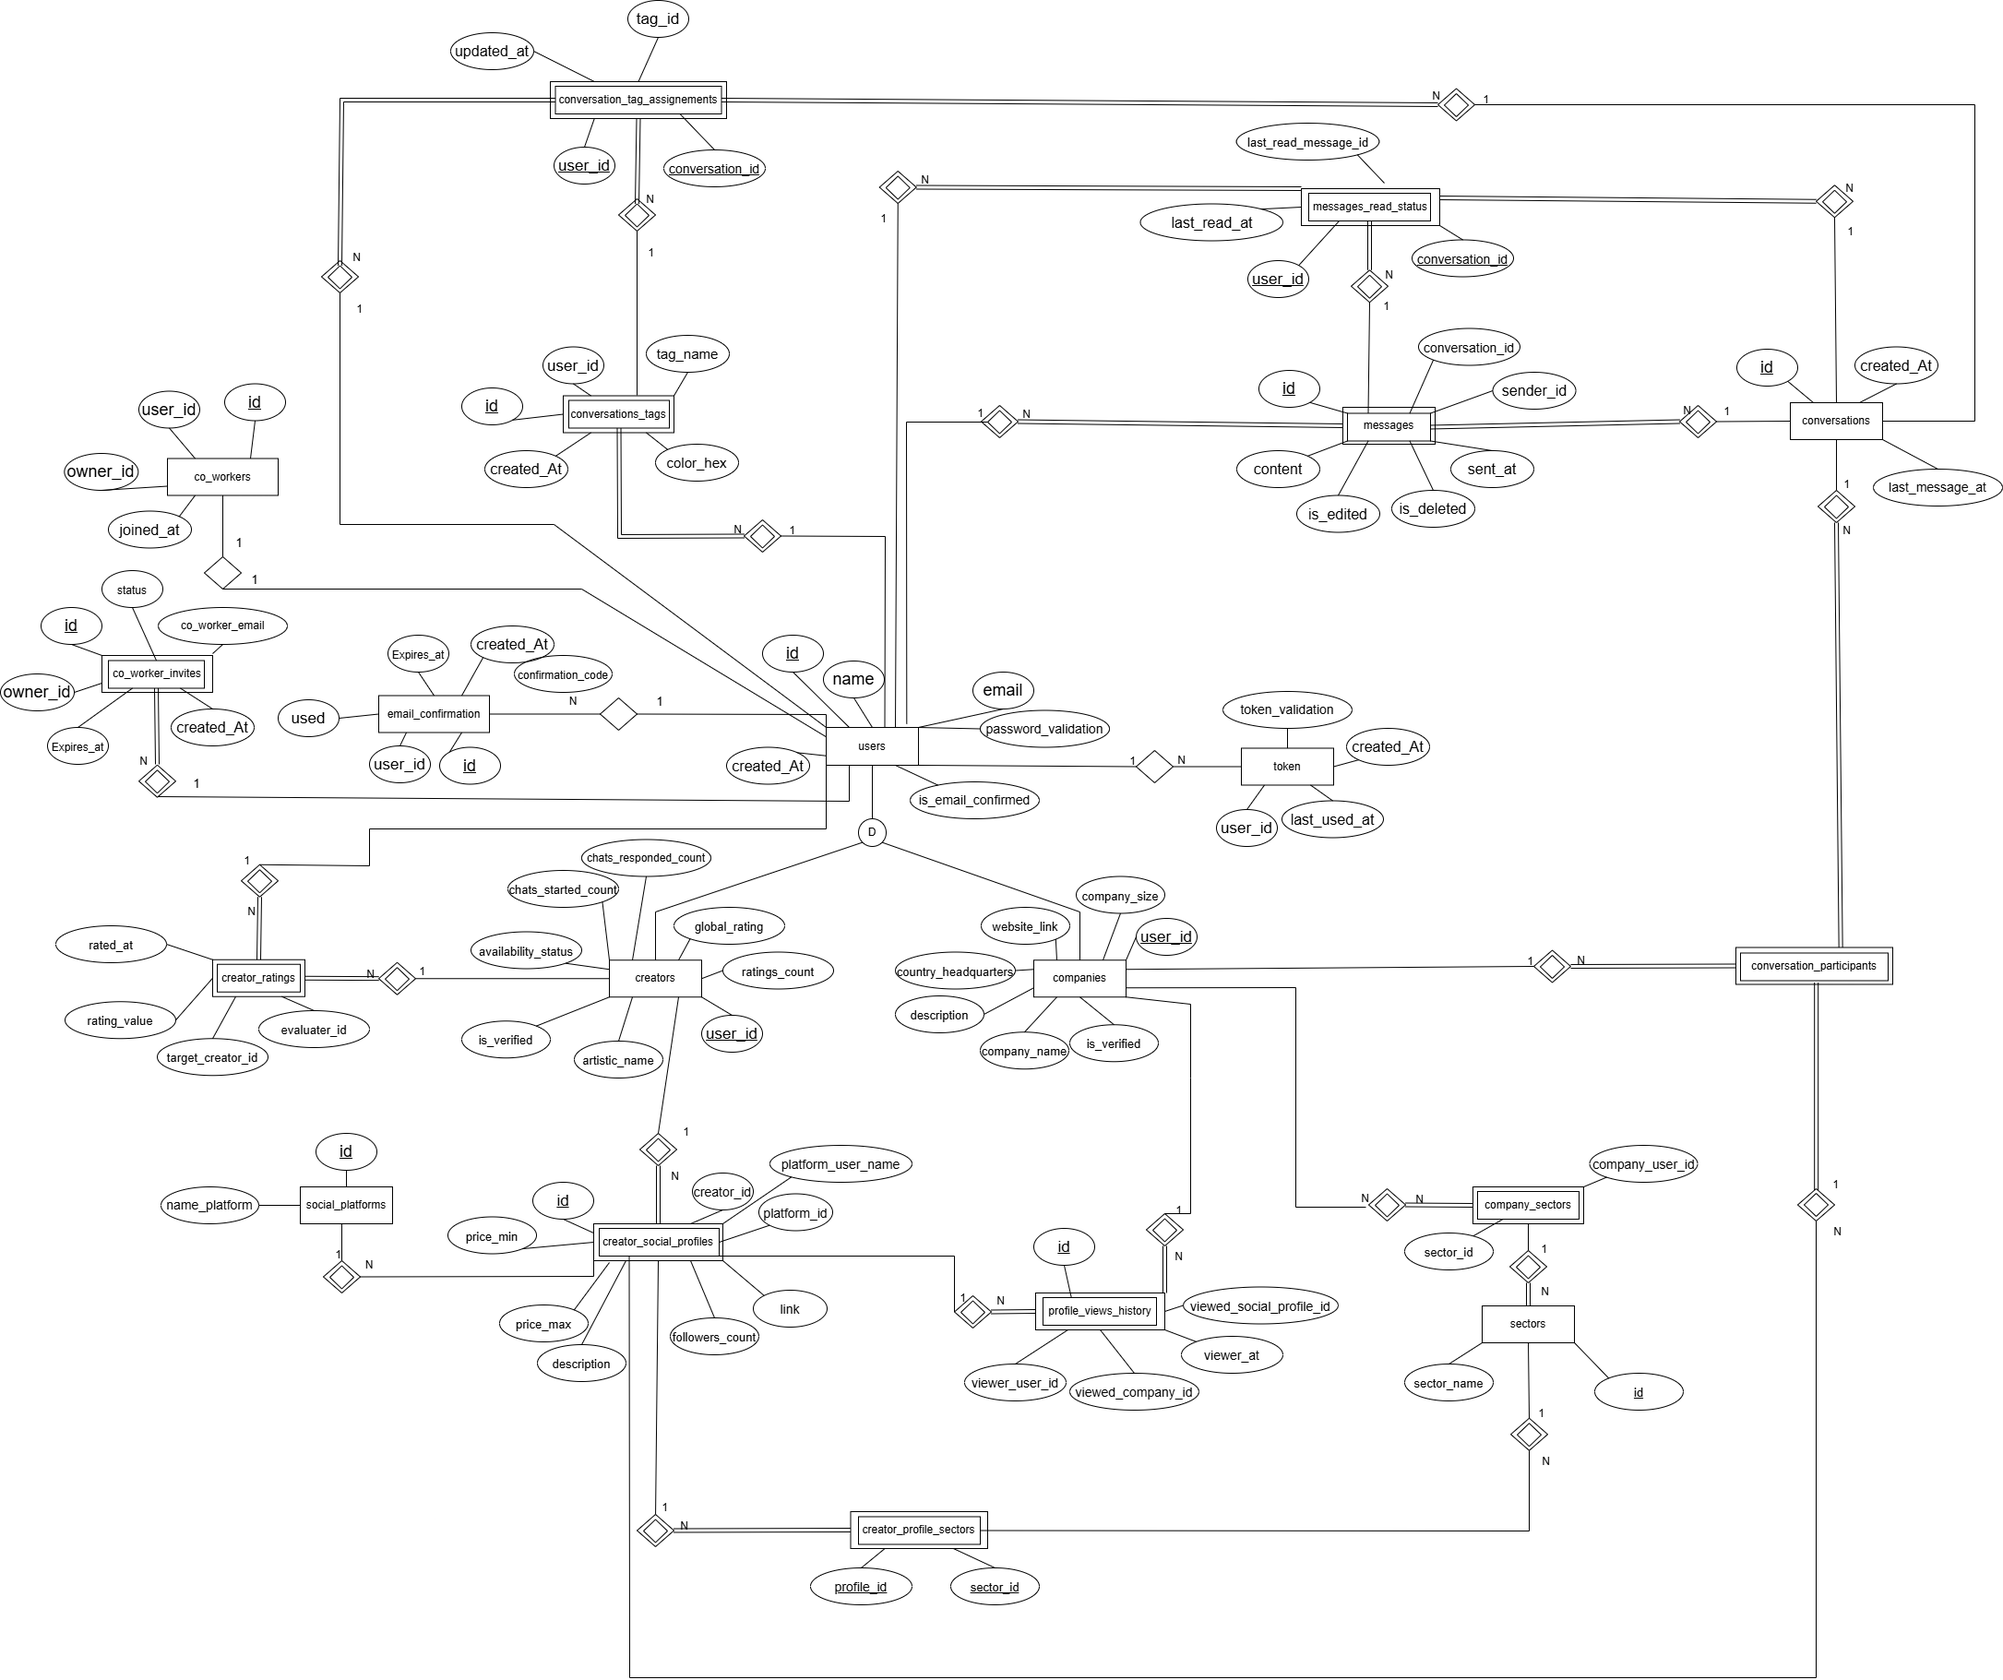
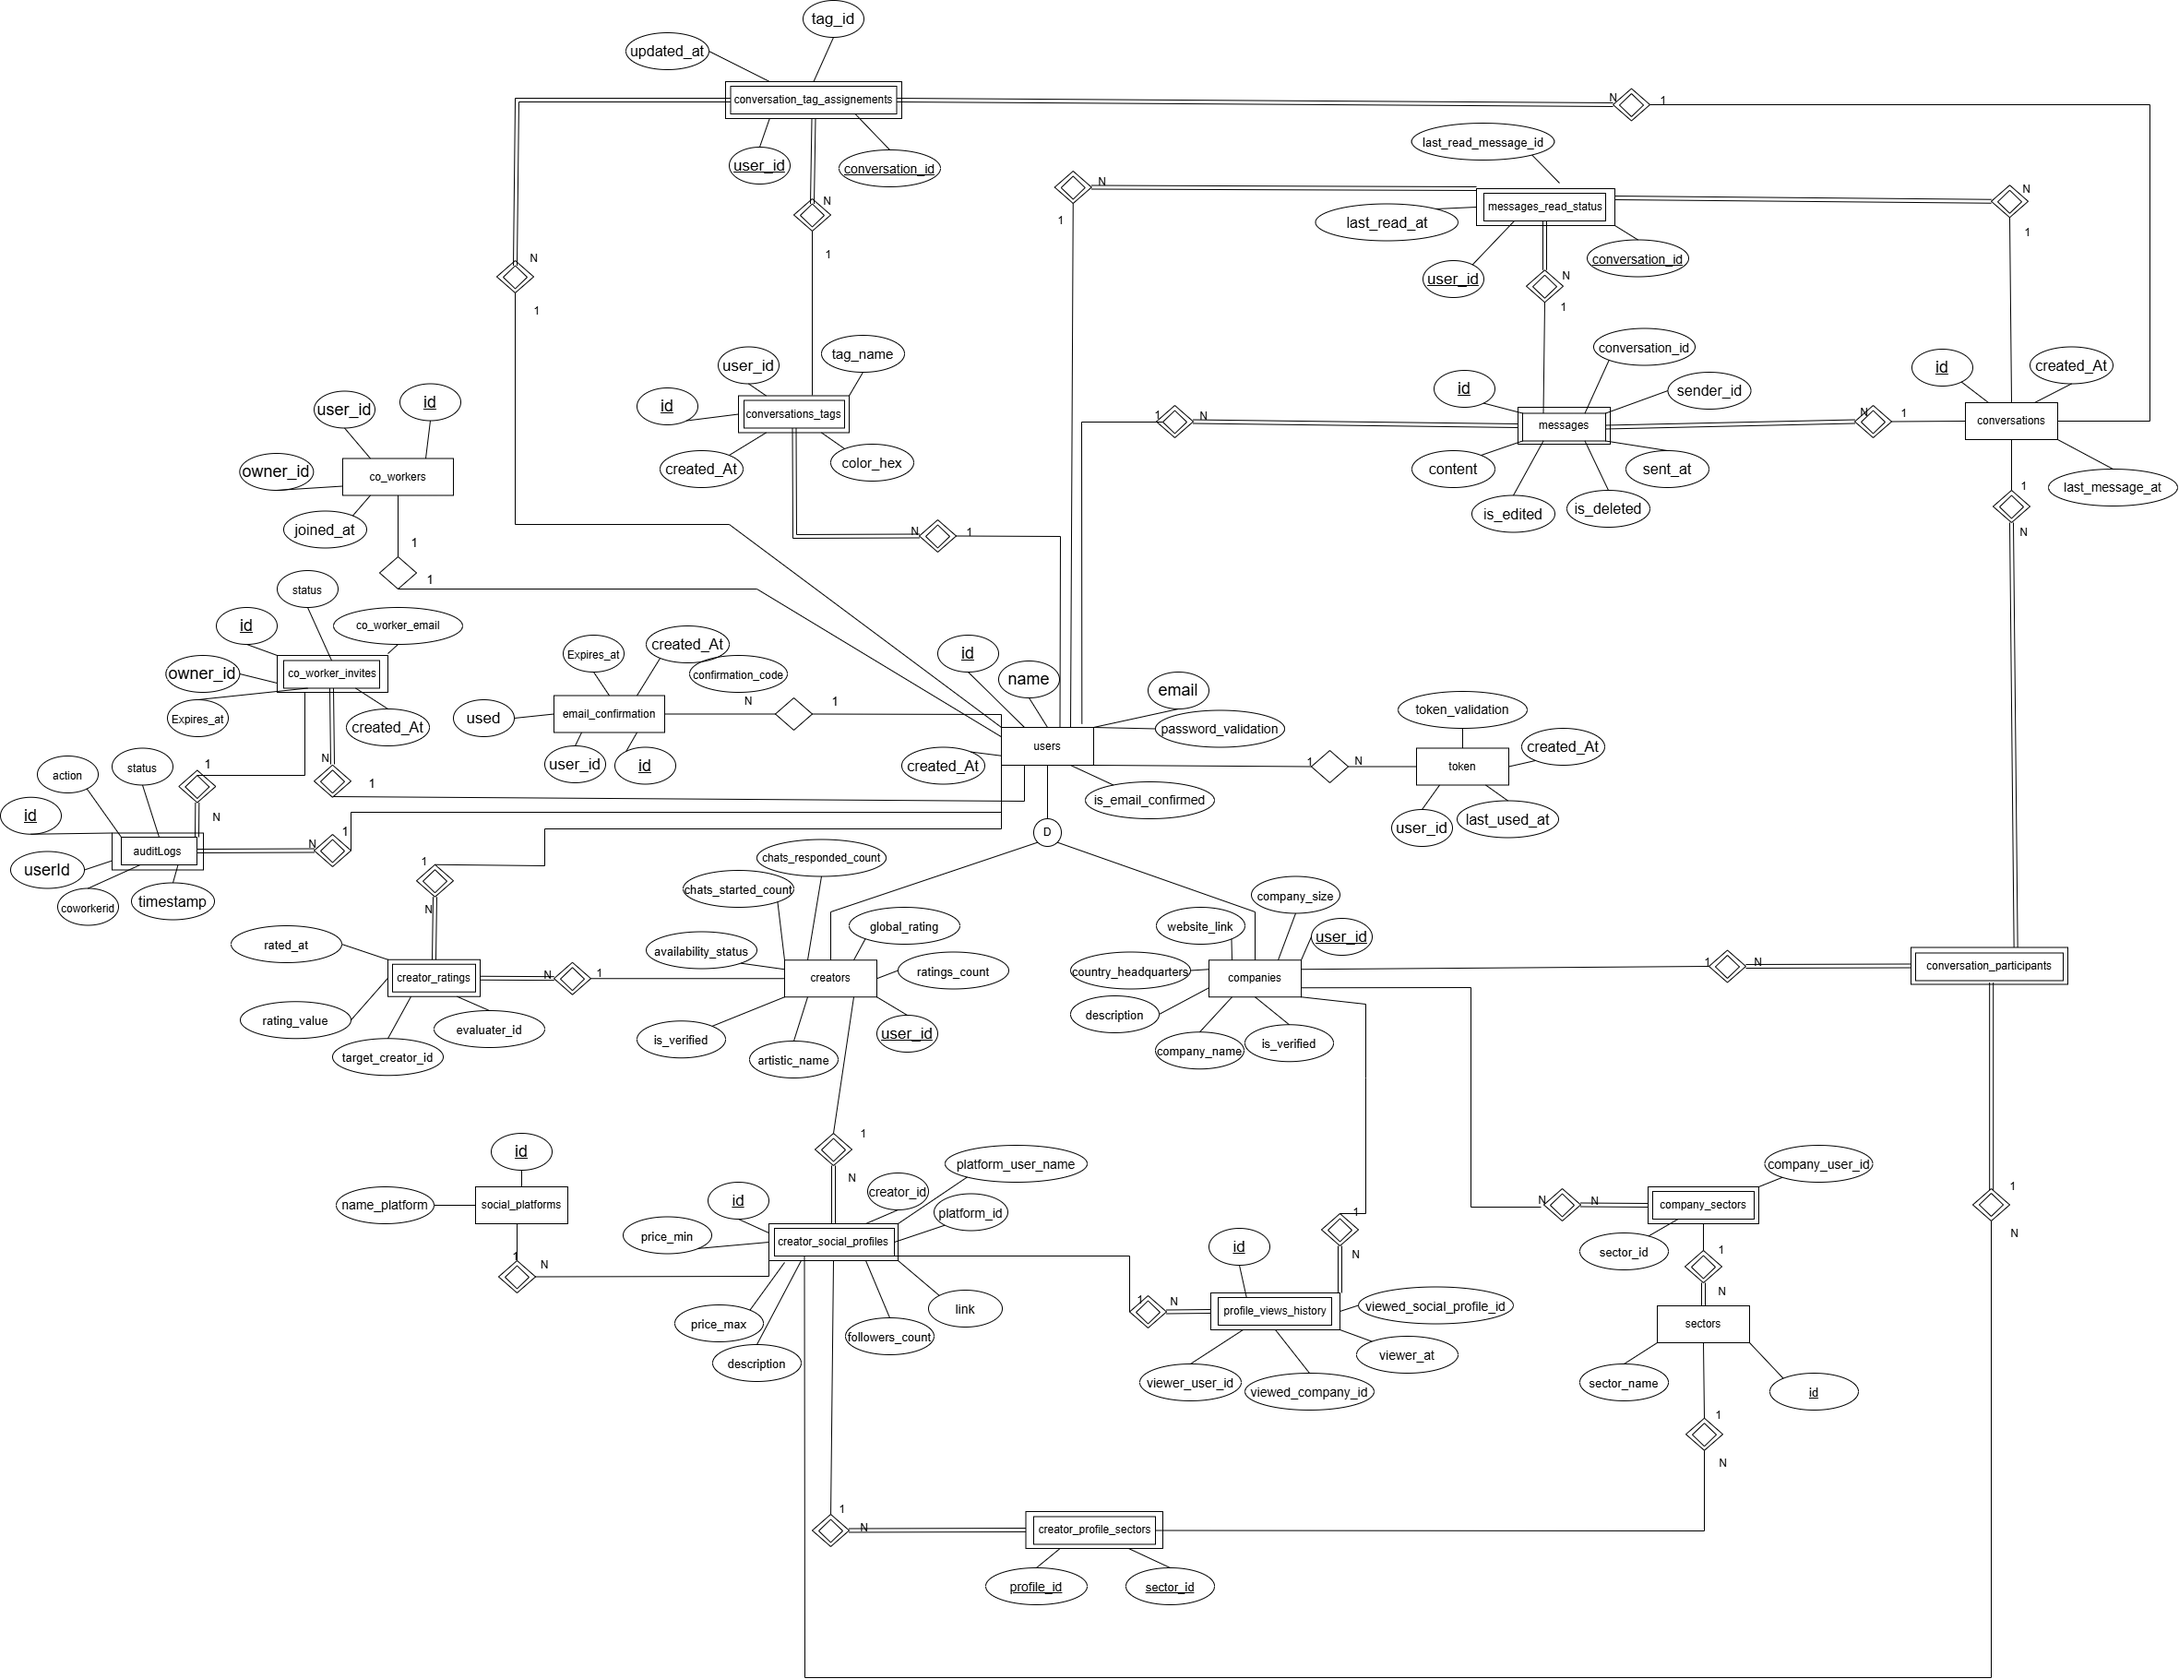
oioioi

diff --git a/sections/database_structure.tex b/sections/database_structure.tex
@@ -14,7 +14,7 @@
     \begin{subfigure}[b]{\textwidth}
         \centering
         \includegraphics[width=0.9\textwidth]{./img/table_1.png}
-        \caption{Atributte Table 1}
+        \caption{Attribute Table 1}
         \label{fig:sub:table1}
     \end{subfigure}
 
@@ -22,7 +22,7 @@
     \begin{subfigure}[b]{\textwidth}
         \centering
         \includegraphics[width=0.9\textwidth]{./img/table_2.png}
-        \caption{Atributte Table 2}
+        \caption{Attribute Table 2}
         \label{fig:sub:table2}
     \end{subfigure}
     \caption{Attributes of every entity in the database}
@@ -71,6 +71,7 @@ The relational model was designed to support the functional and structural needs
 
     \item \textbf{CO\_WORKER\_INVITES}: Stores coworking invitations sent by profile owners to other users. Each invitation includes the \texttt{owner\_id}, the invited user's email address (\texttt{co\_worker\_email}), the invitation status, the creation timestamp and the expiration date. The \texttt{status} attribute is constrained to the values \texttt{WAITING}, \texttt{ACCEPTED} and \texttt{REJECTED}, allowing the system to track the invitation lifecycle. The \texttt{unique\_pending\_invite} constraint prevents duplicate invitations from the same owner to the same email address.
 
+    \item \textbf{AUDITLOGS}: Stores audit logs for various system events. Each log entry includes an auto-incrementing identifier (\texttt{id}), the ID of the user who performed the action (\texttt{userId}), the ID of the coworker involved if applicable (\texttt{coworkerid}), the specific action performed (\texttt{action}), and the record's creation date and time (\texttt{timestamp}).
 \end{itemize}
 
 \section{Database Functions and Recommendation}

diff --git a/digitalManagerG11.tex b/digitalManagerG11.tex
@@ -175,7 +175,7 @@ Degree in Computer Science and Engineering\\[20mm]
 
 \begin{figure}[H]
     \centering
-    \includegraphics[width=1.1\textwidth]{./img/ERModel.png}
+    \makebox[\textwidth][c]{\includegraphics[width=1.1\textwidth]{./img/ERModel.png}}
     \caption{Complete ER Model}
     \label{fig:er_model}
 \end{figure}
